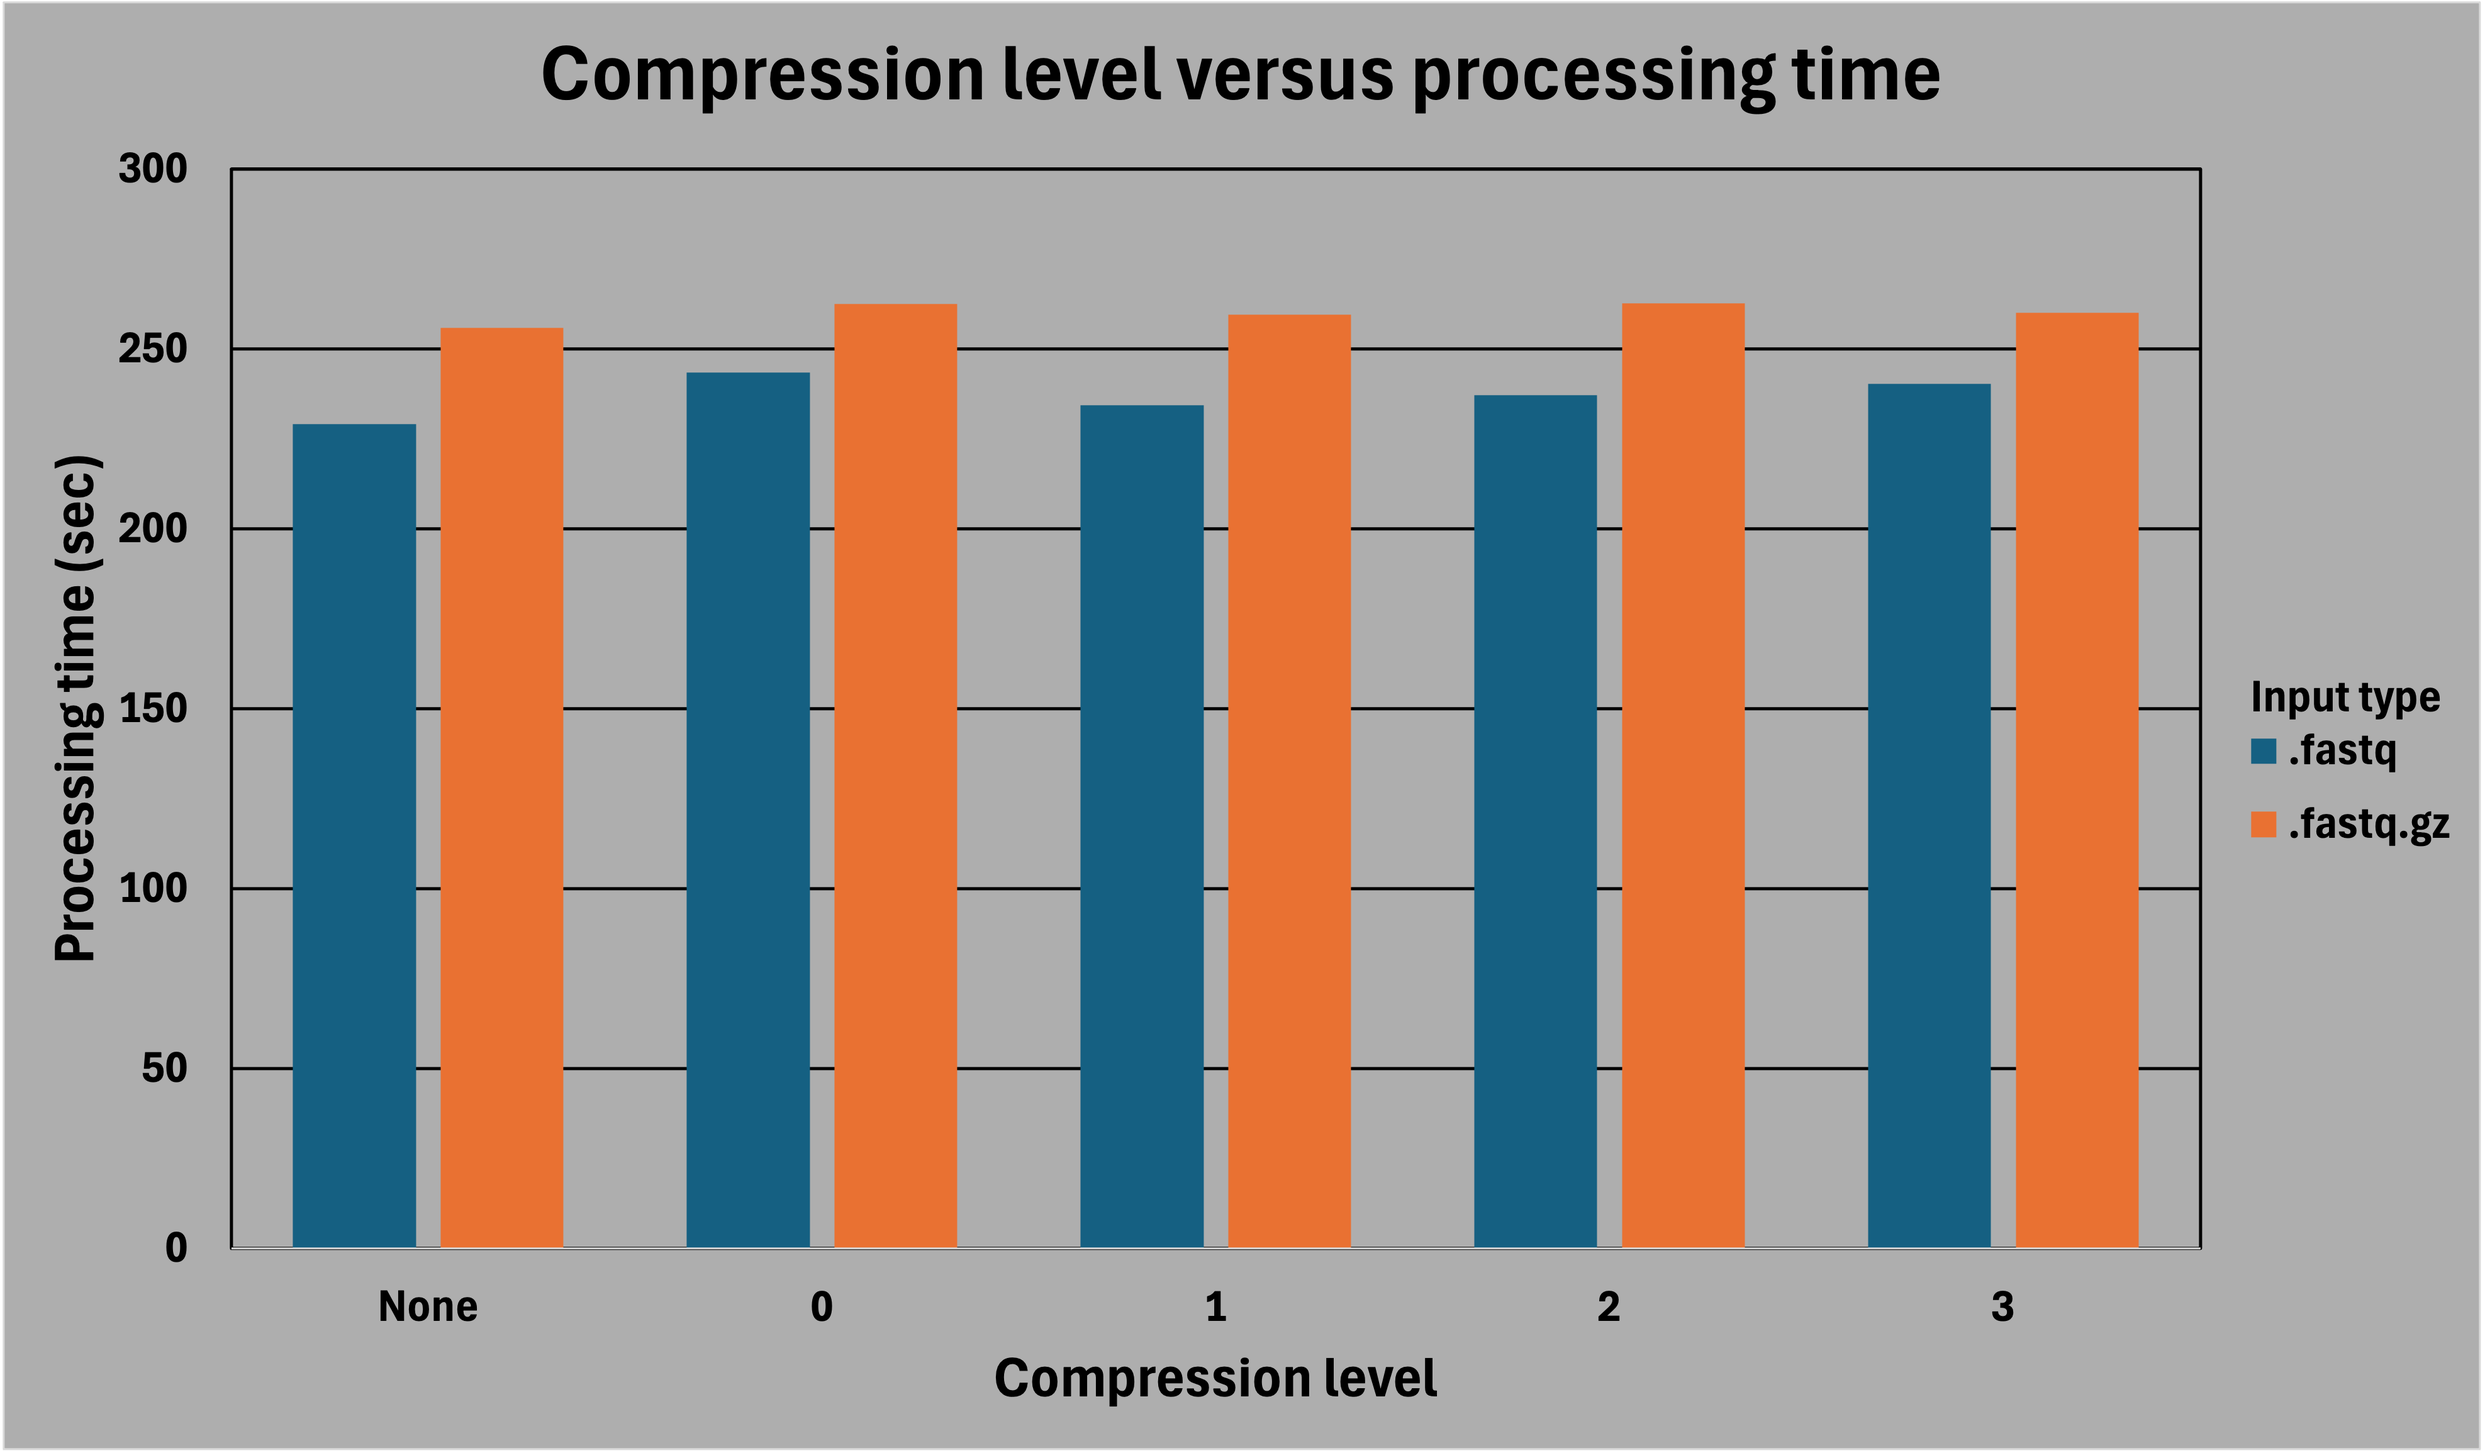
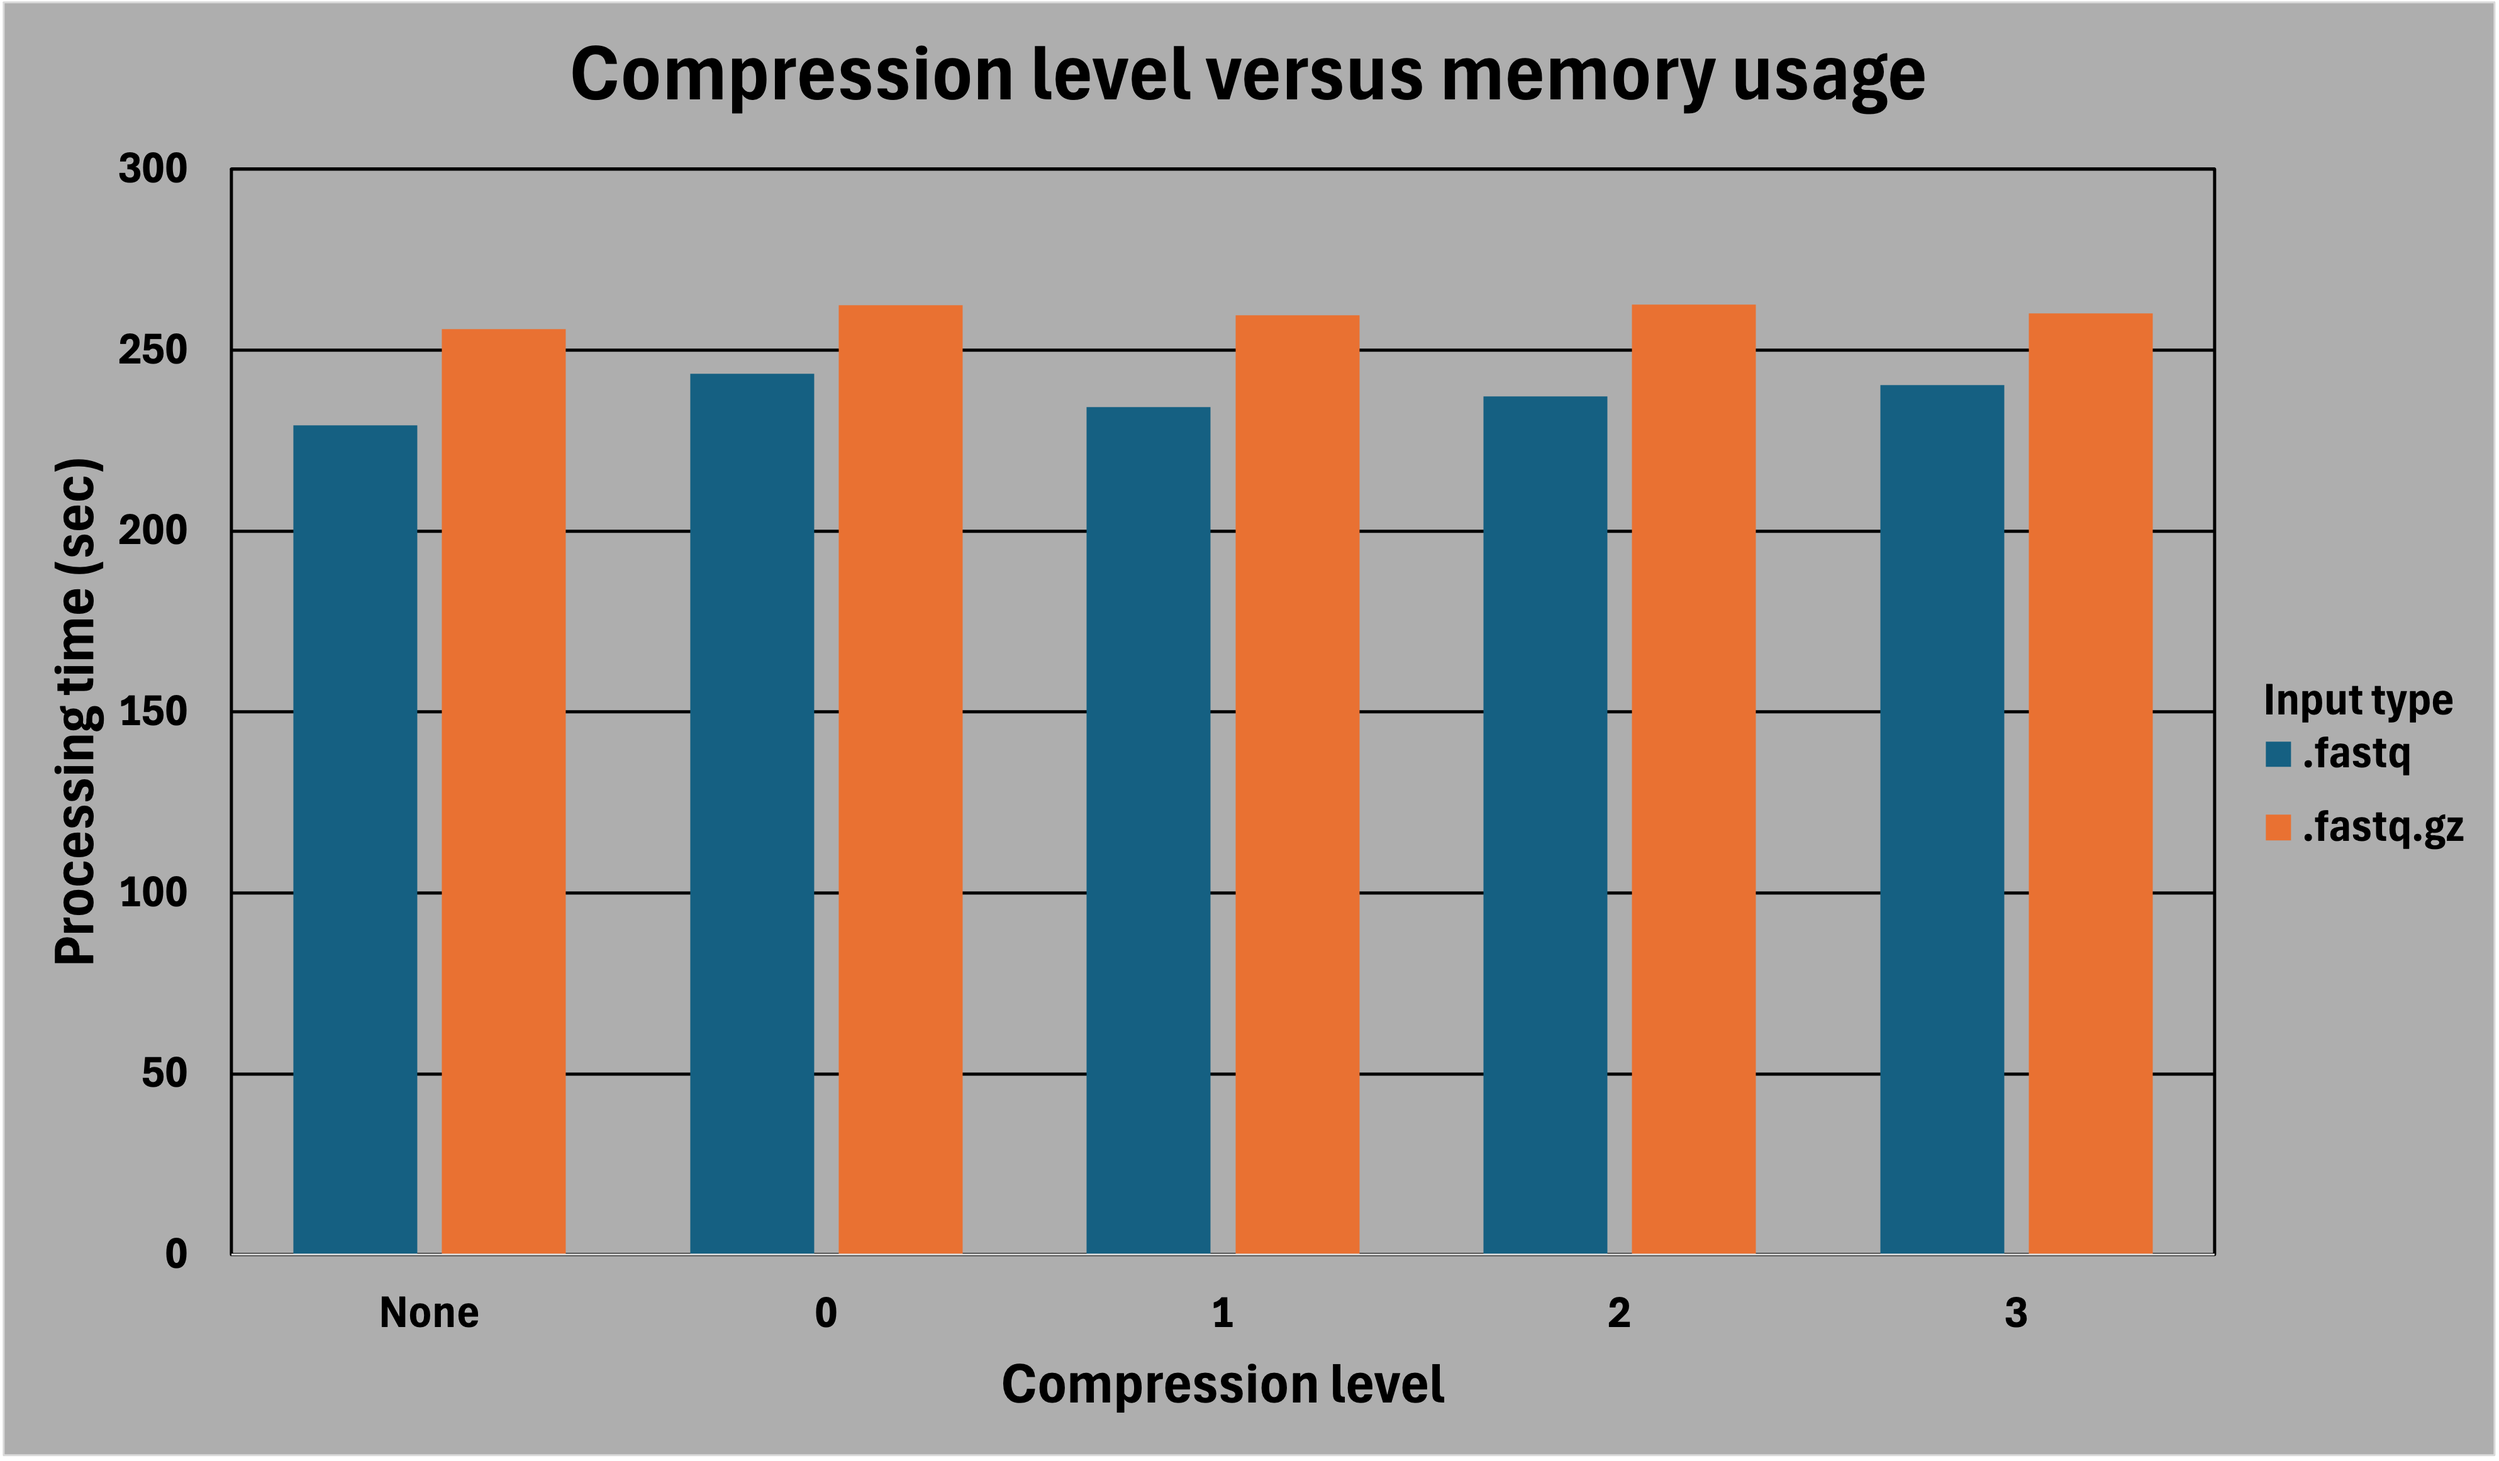
Update Readme

diff --git a/README.md b/README.md
@@ -262,7 +262,9 @@ Readzor has been compared against the following tools:
 All commands used for benchmarking, and subsequent results, are available from the [benchmarking folder](benchmarking/) in this repository. 
 
 ## Performance 
-Readzor leverages `python-isal` for a high-performance implementation of the gzip algorithm. The compression level (ranging from 0 for minimal compression to 3 for maximum compression) directly impacts processing time, memory usage, and final output size, as illustrated below:
+Readzor leverages `python-isal` for a high-performance implementation of the gzip algorithm. 
+A compression level beyond `1` has no appreciable impact on final output size. Setting compression level to `3` does not substantialy reduce file size, yet increase processing time. The peak memory usage does not increase with compression level. 
+From these results, the standard compression level (`--gzip-level`) for when `--gzip` is set, has ben set to `1`.
 
 <table style="border: 2px solid black; border-collapse: collapse; width: 100%;">
   <tr>
